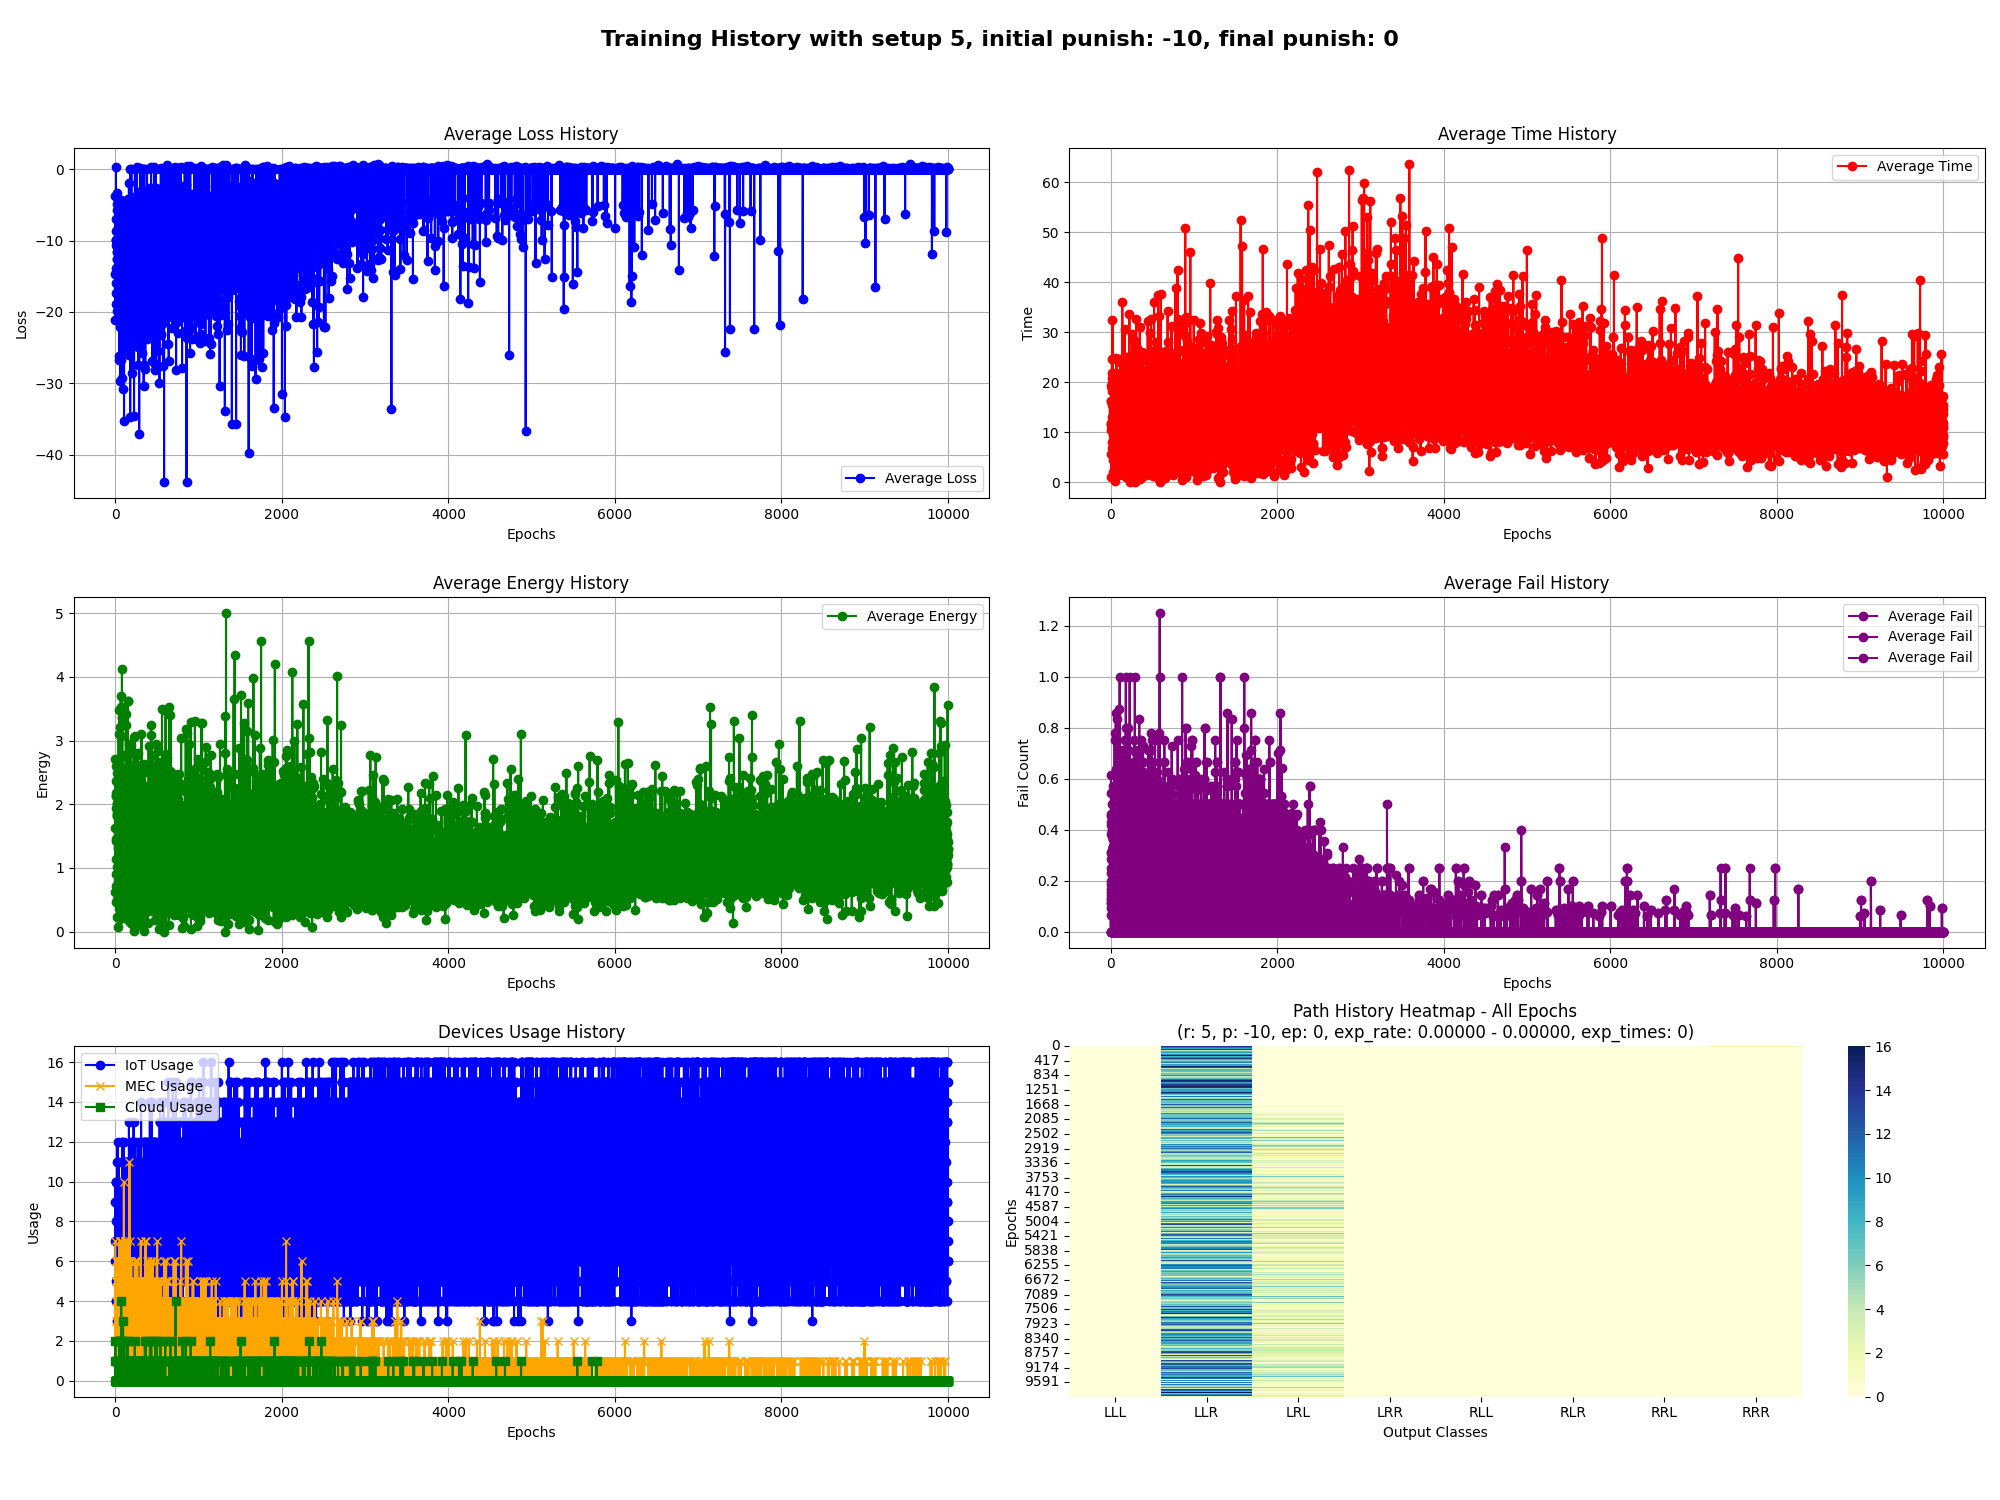
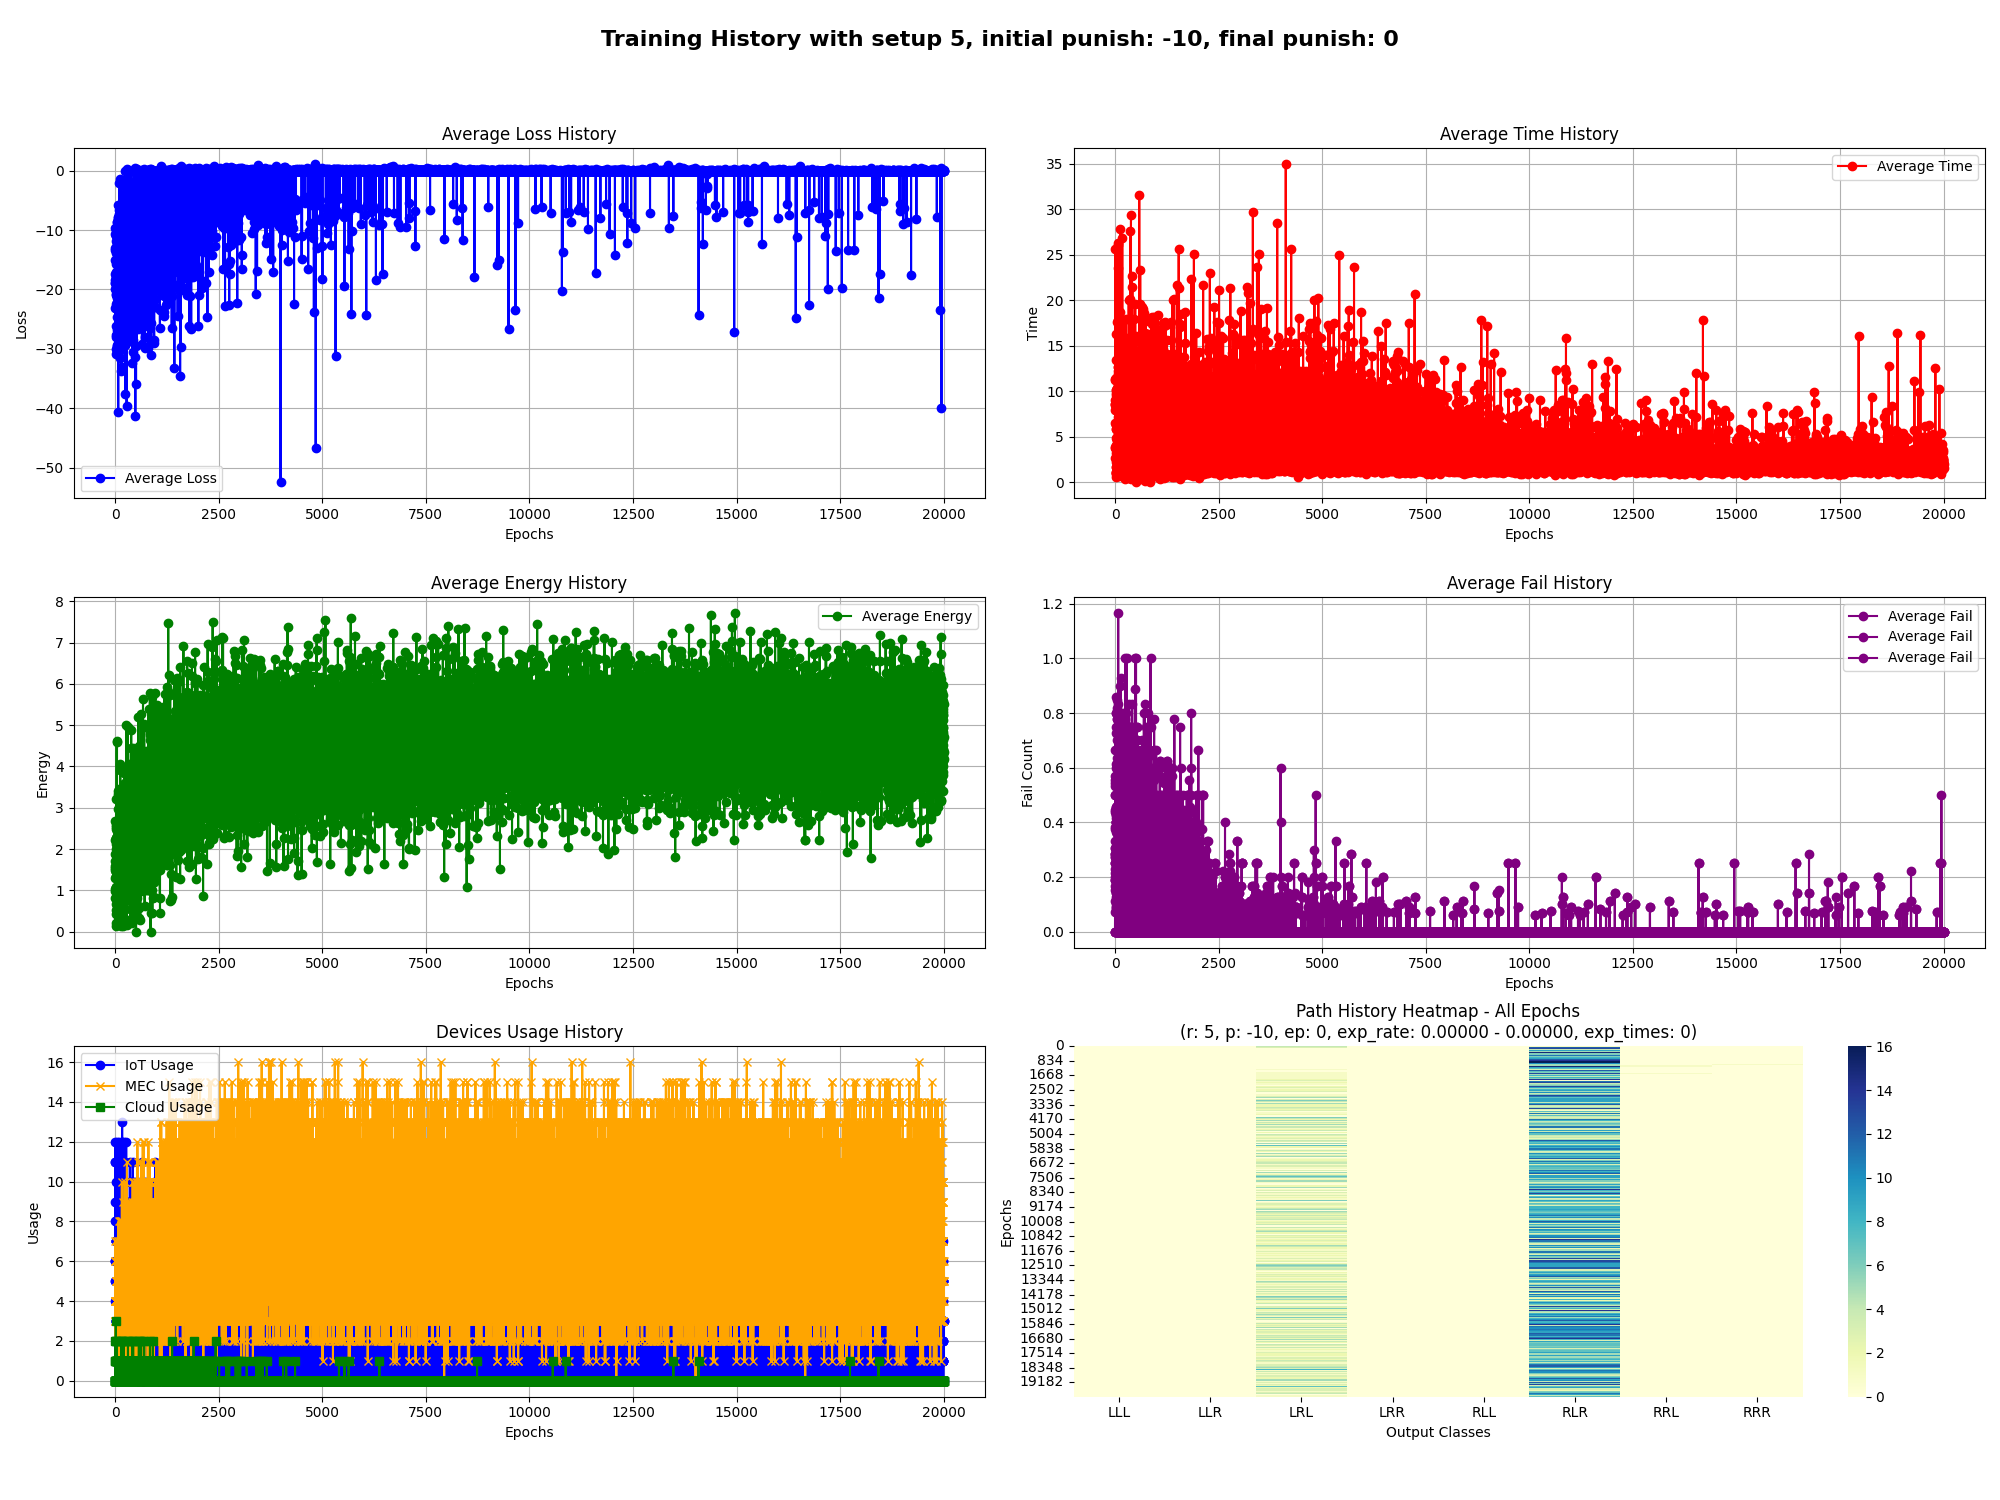
bugfix scalibilty and battry drain

diff --git a/data/db.py b/data/db.py
@@ -29,11 +29,11 @@ class Database:
 
     def get_device(self, id):
         try:
-            return self._devices.iloc[id].to_dict()
+            return self._devices.loc[self._devices['id'] == id].to_dict(orient='records')[0]
         except:
-            print("OOOOO ",id,self._devices,id)
+            print(id,self._devices,id)
 
-        
+    
 
     def get_job(self, id):
         return self._jobs.iloc[id].to_dict()
@@ -49,22 +49,21 @@ class Database:
         # Generate a new random device
         new_device = Generator.generate_random_device()
 
-        # Optionally assign the id (if not part of the generated device already)
-        if 'id' not in new_device:
-            new_device['id'] = id
-
         # Convert the new device to a DataFrame if it's not already
         new_device_df = pd.DataFrame([new_device])
 
         # Concatenate the new device to the existing dataframe
         self._devices = pd.concat([self._devices, new_device_df], ignore_index=True)
-        
+        self._devices.reset_index(drop=True, inplace=True)
+        self._devices['id']=self._devices.index
         return new_device
 
     
     def remove_device(self, id):
         # Assuming `id` is a column in the devices dataframe
         self._devices = self._devices[self._devices['id'] != id]
+        self._devices.reset_index(drop=True, inplace=True)
+        self._devices['id']=self._devices.index
 
     # -------- normalize -------
     def normalize_tasks(self, tasks_normalize):
@@ -77,3 +76,8 @@ class Database:
             tasks_normalize[f'kind{kind}'] = tasks_normalize['task_kind'].isin([kind]).astype(int)
         tasks_normalize.drop(['task_kind'],axis=1)
         return tasks_normalize
+
+
+
+    def set_device_battery(self,id,end):
+        self._devices.loc[self._devices['id'] == id, 'battery_now'] = int(end)

diff --git a/env.py b/env.py
@@ -66,9 +66,11 @@ class Environment():
 
     def remove_device(self):
         # Randomly remove a device
-        if len(self.devices) > 1:
+        if len(self.devices) > 1 :
             device_index = np.random.randint(0, len(self.devices)-1)
             device_id = self.devices[device_index]['id']
+            if self.devices[device_index]['type']=='cloud':
+                return self.remove_device()
 
             # Remove the selected device from the Database
             Database().remove_device(device_id)
@@ -84,7 +86,7 @@ class Environment():
                 self.monitor.plot_histories()
                 print("plotted -0--------")
             # Dynamically add/remove devices
-            if learning_config['scalability'] and job_id >10000:
+            if learning_config['scalability']and  job_id >10000:
                 if np.random.random() < learning_config['add_device_iterations']:
                     print("add")
                     self.add_device()

diff --git a/data/gen.py b/data/gen.py
@@ -91,7 +91,6 @@ class Generator:
                             config["battery_capacity"][0], config["battery_capacity"][1]
                         ) * 1e3
                     ),
-                    "battery_level": -1 if config["battery_capacity"] == -1 else 100,
                     "battery_now": -1 if config["battery_capacity"] == -1 else 100,
                     "error_rate": np.random.uniform(
                         config["error_rate"][0], config["error_rate"][1]
@@ -164,7 +163,7 @@ class Generator:
                     device_config["battery_capacity"][0], device_config["battery_capacity"][1]
                 ) * 1e3
             ),
-            "battery_now": -1 if device_config["battery_capacity"] == -1 else 100,
+            "battery_now": -1 if device_config["battery_capacity"] == -1 == -1 else 100,
             "error_rate": np.random.uniform(
                 device_config["error_rate"][0], device_config["error_rate"][1]
             ),

diff --git a/utils.py b/utils.py
@@ -179,14 +179,15 @@ def checkBatteryDrain(energy, device):
     batteryFail = 0
 
     if device['type'] == "iot":
-        battery_capacity = device["battery_level"]
+        battery_capacity = device["battery_capacity"]
         battery_start = device["battery_now"]
         battery_end = ((battery_start * battery_capacity) - (energy * 1e5)) / battery_capacity
         if battery_end < device["ISL"]:
             batteryFail = 1
         else:
             punish = getBatteryPunish(battery_start, battery_end, alpha=learning_config["init_punish"])
-            Database().get_device(device["id"])['battery_now'] = battery_end
+            Database().set_device_battery(device["id"] ,battery_end) 
+            
             # if battery_end < 20:
             #     print(f'device: {device["id"]} b_start: {battery_start}, b_end: {battery_end}, punish: {punish}')
             # print(f"{battery_start - battery_end} -> {punish}, energy: {energy}")

diff --git a/config.py b/config.py
@@ -113,7 +113,7 @@ learning_config = {
     "explore_epsilon": 1e-5,
     "num_jobs": 20000,
 
-    "drain_battery": False,
+    "drain_battery": True,
 
     ###### INPUT & OUTPUT #######
     "onehot_kind": True,  # one-hotting the task kind

diff --git a/main.py b/main.py
@@ -2,5 +2,6 @@ from env import Environment
 
 
 if __name__ == '__main__':
-    env = Environment()
-    env.run()
+    for i in range(3):
+        env = Environment()
+        env.run()
